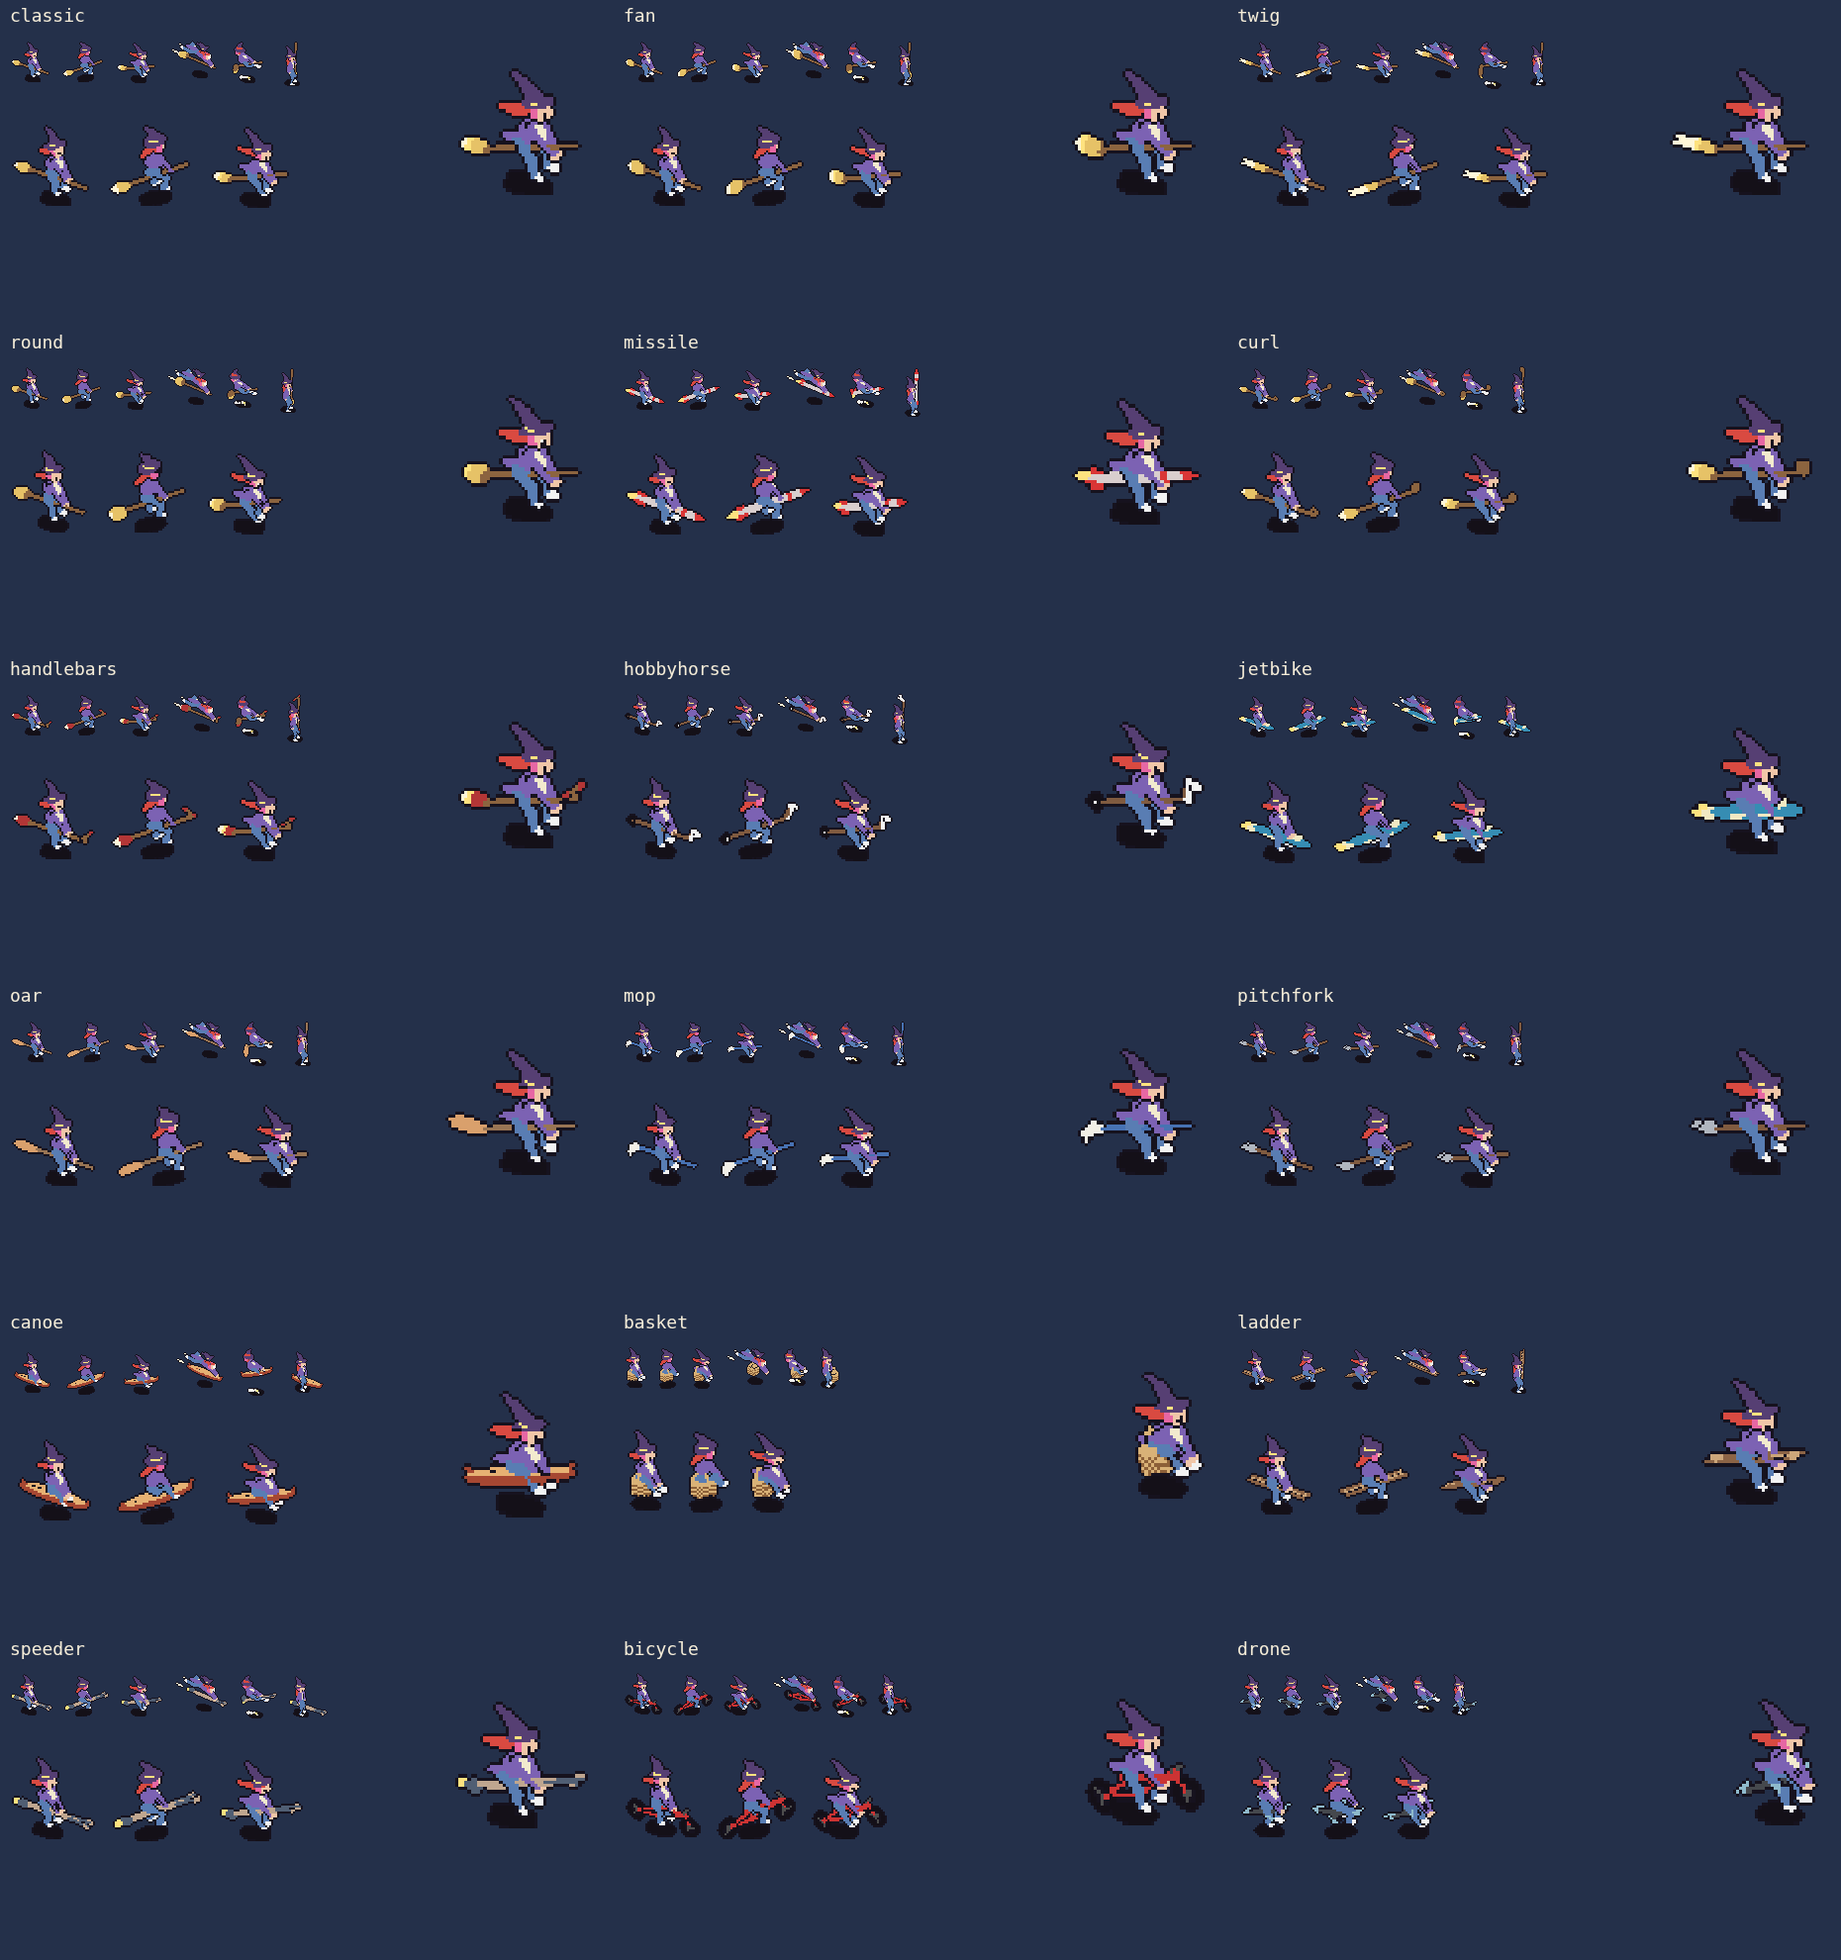
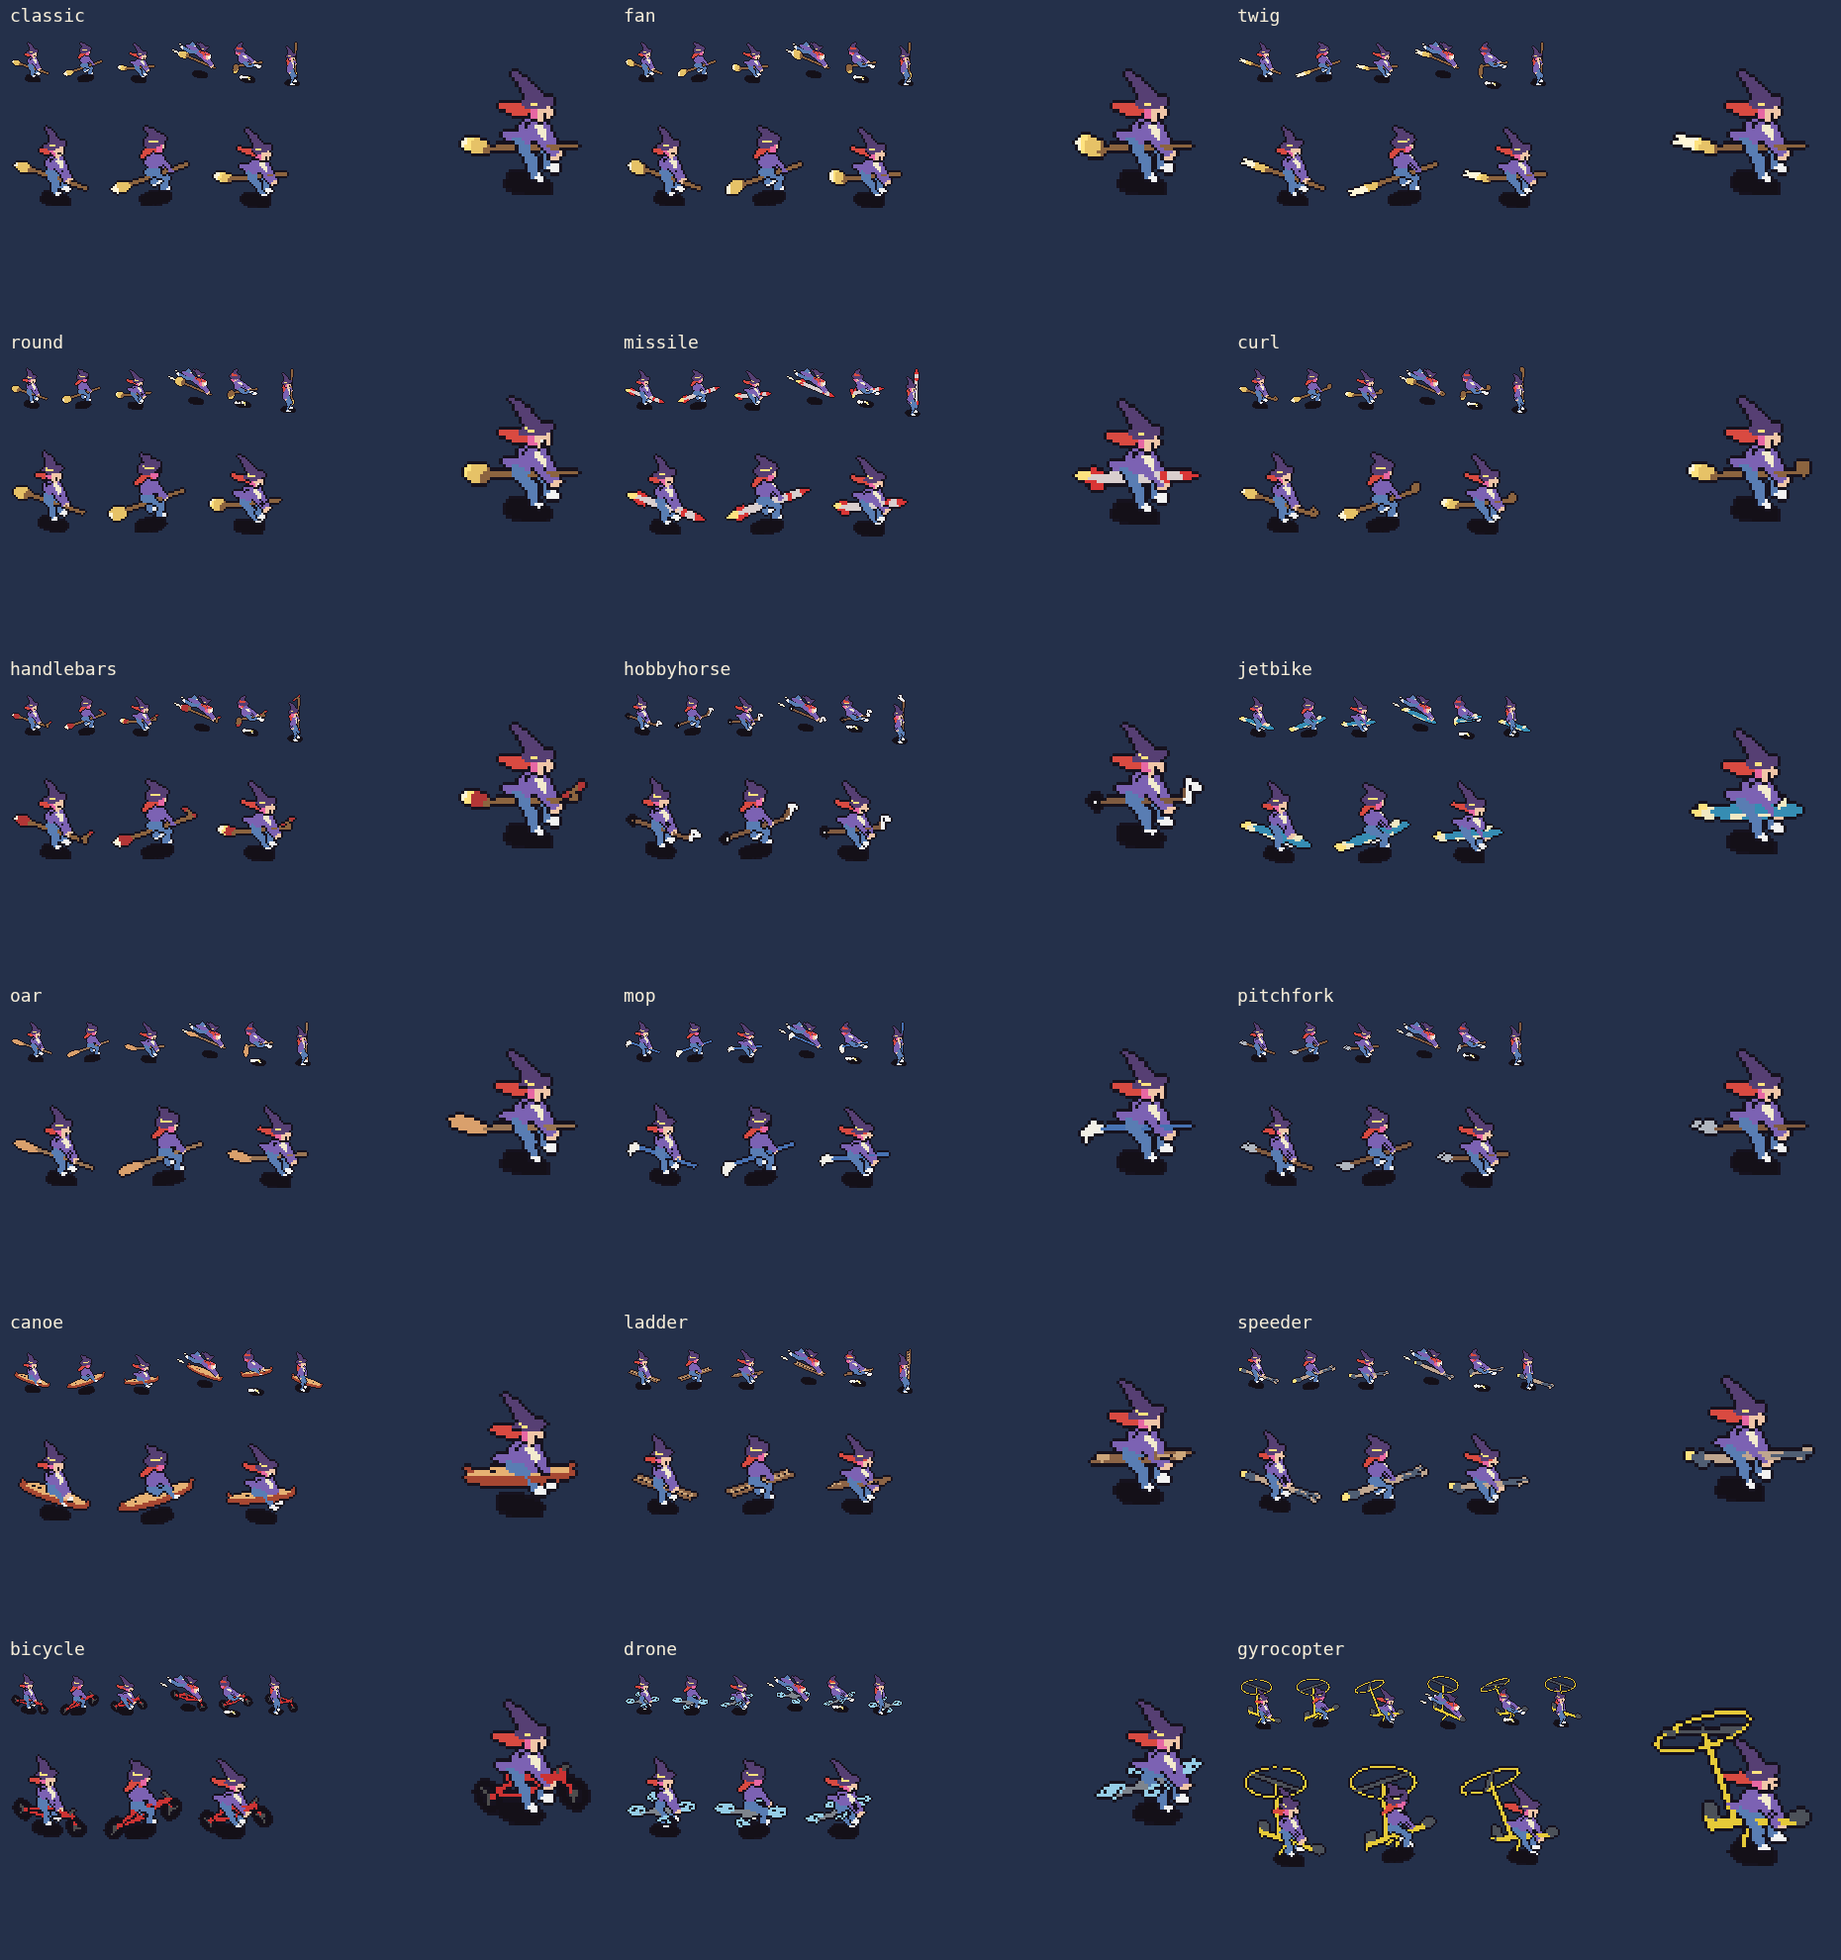
Brooms: a gyrocopter; the wicker basket left out (Ed)
Claude-Session: https://claude.ai/code/session_01TZiiLtuTHaQyxfLgD6H57G

diff --git a/art/brooms.js b/art/brooms.js
@@ -1,5 +1,6 @@
 // The broom's other kinds (Ed, 2026-10-06: "create some different kinds of broom; a missile, a curled tip, handlebars, hobby horse,
-// jet bike, oar, mop, pitchfork, canoe, wicker basket, ladder, speeder bike, bicycle, quad drone"). Each is drawn where her broom is
+// jet bike, oar, mop, pitchfork, canoe, wicker basket, ladder, speeder bike, bicycle, quad drone"; later: "a gyrocopter", and the
+// wicker basket left out). Each is drawn where her broom is
 // (art/witch.js broomHandle and broomBristles: the handle from its binding a to its nose b, the bristles' end at c, o.dir toward the
 // nose), so every pose that holds or rides a broom rides these too. Two colours, the creator's Broom box's two pickers: the body
 // (M.BROOM, the handle's) and the trim (M.STRAW, the bristles'); flames, exhausts and lights glow in her magic (M.MAGIC, MAGIC2).
@@ -9,11 +10,11 @@ import { M } from "./core.js";
 import { v3 } from "./model3d.js";
 
 /** The kinds after hers (classic, fan, twig, round), in the creator's order. */
-export const NEW_BROOMS = ["missile", "curl", "handlebars", "hobbyhorse", "jetbike", "oar", "mop", "pitchfork", "canoe", "basket", "ladder", "speeder", "bicycle", "drone"];
+export const NEW_BROOMS = ["missile", "curl", "handlebars", "hobbyhorse", "jetbike", "oar", "mop", "pitchfork", "canoe", "ladder", "speeder", "bicycle", "drone", "gyrocopter"];
 /** She sits in these (knees up) rather than astride. */
-export const SIT_IN = new Set(["canoe", "basket"]);
+export const SIT_IN = new Set(["canoe"]);
 /** On foot these stand on the ground beside her (how high their binding is) rather than being held like a staff. */
-export const PARKED = { canoe: .15, basket: .28, bicycle: .35, jetbike: .14, speeder: .1, drone: .11 };
+export const PARKED = { canoe: .15, gyrocopter: .3, bicycle: .35, jetbike: .14, speeder: .1, drone: .11 };
 
 const BR_BODY = 2, BR_TAIL = 3, BR_TRIM = 13, BR_GLOW = 16, BR_BITS = 17; // groups: different ones meet with a crease, so the pieces read apart
 const BR_SIDE = [0, 0, 1];
@@ -137,16 +138,6 @@ export const BROOM_KINDS = {
       for (const t of [-.5, .55]) m.seg(v3.add(c, v3.mul(F.d, t * F.len)), v3.add(v3.add(c, v3.mul(F.d, t * F.len * 1.12)), v3.mul(F.up, .1)), .02, .012, M.BROOM, { group: BR_TRIM }); // its ends sweeping up
     },
   },
-  // a wicker basket: she sits in it, its weave in both colours
-  basket: {
-    body(m, L, a, b) {
-      const F = broomAlong(L, a, b), c = v3.add(v3.add(a, v3.mul(F.d, .46)), v3.mul(F.up, -.1)), weave = p => (Math.floor(p[1] * 28) + Math.floor((p[0] + p[2]) * 18)) % 2 ? M.STRAW : undefined;
-      m.box(c, [.19, .17, .19], M.BROOM, { dir: F.d, up: F.up, group: BR_BODY, round: .04, paint: weave });
-      m.box(v3.add(c, v3.mul(F.up, .06)), [.16, .17, .16], M.STRAW, { dir: F.d, up: F.up, group: BR_BODY, round: .03, cut: true });
-      const rim = v3.add(c, v3.mul(F.up, .17)); broomRing(m, rim, F.d, BR_SIDE, .19, .022, M.STRAW, BR_TRIM, 16);
-      m.chain([[...v3.add(rim, [0, 0, -.19]), .014], [...v3.add(rim, v3.add(v3.mul(F.up, .14), [0, 0, -.1])), .014], [...v3.add(rim, v3.add(v3.mul(F.up, .2), [0, 0, 0])), .014], [...v3.add(rim, v3.add(v3.mul(F.up, .14), [0, 0, .1])), .014], [...v3.add(rim, [0, 0, .19]), .014]], M.STRAW, { group: BR_TRIM, extra: true }); // its handle, arching over her
-    },
-  },
   // a ladder: two rails and rungs
   ladder: {
     body(m, L, a, b) {
@@ -193,6 +184,27 @@ export const BROOM_KINDS = {
         broomRing(m, top, F.d, BR_SIDE, .13, .006, M.STRAW, BR_BITS + 1, 12); // the blur of its blades
         m.ell(v3.add(hub, v3.mul(F.up, -.02)), [.016, .016, .016], p > 0 ? M.MAGIC : M.MAGIC2, { group: BR_GLOW });
       }
+    },
+  },
+  // a gyrocopter: a keel under her with a bubble nose, a mast behind her up past her hat, a big rotor turning on it, a tail fin and a
+  // pusher propeller at the back
+  gyrocopter: {
+    body(m, L, a, b) {
+      const F = broomAlong(L, a, b), turn = (L.frame ?? 0) * Math.PI / 3;
+      m.seg(F.at(0, -.06), F.at(F.len, -.06), .03, .028, M.BROOM, { group: BR_BODY });
+      m.ell(F.at(F.len - .02, -.02), [.1, .07, .07], M.STRAW, { dir: F.d, up: F.up, group: BR_TRIM }); // the nose
+      const foot = F.at(.3, -.04), top = v3.add(F.at(.24, 0), v3.mul(F.up, .98));
+      m.seg(foot, top, .022, .016, M.BROOM, { group: BR_BODY });
+      m.ell(top, [.03, .025, .03], M.STRAW, { group: BR_TRIM });
+      for (const k of [0, 1]) { const t = turn + k * Math.PI, dr = v3.add(v3.mul(F.d, Math.cos(t) * .5), [0, 0, Math.sin(t) * .5]); m.seg(top, v3.add(top, dr), .02, .014, M.STRAW, { group: BR_BITS, extra: true }); }
+      broomRing(m, v3.add(top, v3.mul(F.up, -.005)), F.d, BR_SIDE, .5, .005, M.BROOM, BR_BITS + 1, 20); // the blur of its rotor
+      for (const s2 of [-1, 1]) m.seg(F.at(.5, -.07, s2 * .02), F.at(.42, -.25, s2 * .13), .012, .012, M.BROOM, { group: BR_BITS }); // its little legs
+    },
+    tail(m, L, c, r, o) {
+      const T = broomTail(c, r, o), turn = (L.frame ?? 0) * Math.PI / 4 + .4;
+      m.box(T.at(.0, .08), [.07, .08, .008], M.STRAW, { dir: T.d, up: T.up, group: BR_TRIM, round: .006 }); // the fin
+      m.ell(T.at(-.03, -.06), [.03, .025, .025], M.STRAW, { group: BR_TRIM });
+      for (const k of [0, 1]) { const t = turn + k * Math.PI, dr = v3.add(v3.mul(T.up, Math.cos(t) * .11), [0, 0, Math.sin(t) * .11]); m.seg(T.at(-.05, -.06), v3.add(T.at(-.05, -.06), dr), .012, .008, M.BROOM, { group: BR_BITS }); }
     },
   },
 };

diff --git a/src/ui/creator.ts b/src/ui/creator.ts
@@ -67,7 +67,7 @@ const label = (s: string) => s.replace(/([A-Z])/g, " $1").replace(/^hat |^broom 
 /** What a choice is called on its button (its genome name otherwise). */
 const NAMES: Record<string, string> = { conical: "farmer's", boppers: "deely boppers", top: "top hat", party: "party hat", traffic: "traffic cone" };
 /** The broom kinds' names on their buttons (art/brooms.js). */
-const BROOM_NAMES: Record<string, string> = { curl: "curled tip", hobbyhorse: "hobby horse", jetbike: "jet bike", basket: "wicker basket", speeder: "speeder bike", drone: "quad drone" };
+const BROOM_NAMES: Record<string, string> = { curl: "curled tip", hobbyhorse: "hobby horse", jetbike: "jet bike", speeder: "speeder bike", drone: "quad drone" };
 const optName = (axis: string, opt: string) => axis === "hatShape" ? (opt === "none" ? "no hat" : NAMES[opt] ?? opt) : axis === "broom" ? BROOM_NAMES[opt] ?? opt : opt;
 /** What a toggle or a colour part is called in its box (its genome name otherwise). */
 const WEAR_NAMES: Record<string, string> = { phones: "wearing them", shades: "sunglasses", scarf: "wearing it", satchel: "satchel", bumbag: "bum bag", chunky: "chunky trainers", glowsticks: "glow sticks", vial: "potion vial", book: "spellbook", patches: "cloak patches" };

diff --git a/CLAUDE.md b/CLAUDE.md
@@ -64,7 +64,7 @@ Literal, stable names for the parts of the game, as Ed and the builders agree th
 - **Wall objects, small objects, big objects, set piece**: Ed's columns. Big objects stand like trees (trees split into top and bottom halves; mounds, boulders and logs whole); small objects scatter like undergrowth; wall objects stand where areas meet and block nothing; a set piece shows in a quarter of its type's areas, in the clearing.
 - **Party witches**: the witches who fly in to the dancefloor, one for each active soundsystem (`partyWitch(seed)` in `art/witch.js`): generated witches (Ed, 2026-10-05: "the generated witches replace the party witches' outfits"), `witchGenome(seed, { party: true })` with two party neons for their glow sticks; the old outfits (`PARTY_OUTFITS`) still draw with `partyWitch(seed, { outfit })`. They and our witch share the party poses (dances, pairs, social, running, resting).
 - **Pair poses**: party poses two witches do together (`WITCH_PAIRS`): each draws her own sprite, placed so their `pair` anchors meet (the partner mirrored, so they face each other; the conga's hands on the `back` of the witch ahead; the twirl's partner spins under the raised hand; the broom limbo is two witches holding a broom level and a third leaning back under it).
-- **Witch genome / witch generator**: a witch as genome data (`art/witchGenome.js`): her hat (shape: the witch's classic, crooked, floppy, small and flowers, and the creator's none, top, cowboy, conical, boppers, party, musketeer, wizard, beanie, crown, mushroom and traffic; crown height, brim, lean, band), hair, top, cloak (none, short, long, hooded), broom (classic, fan, twig or round bristles; handle length and bend; bristle length; and the creator's other kinds, Ed 2026-10-06, `art/brooms.js`: missile, curled tip, handlebars, hobby horse, jet bike, oar, mop, pitchfork, canoe, wicker basket, ladder, speeder bike, bicycle and quad drone, each in the Broom box's two colours, body and trim, its flames, exhausts and lights glowing, its rotors, wheels and drips turning with the frame; she sits in the canoe and the basket, and on foot the vehicles stand beside her; `node tools/witch/brooms-sheet.mjs <png> [kinds]` and `brooms-gif.mjs` draw them; generated witches keep the four brooms), cloak length and patches, scarf length (0 none to 3 trailing), bag size and backpack size (0 none), the sliders' ranges wider than a generated witch's (Ed, round 11: "the sliders ... should go further"; `node tools/witch/hats-sheet.mjs` and `sliders-sheet.mjs` draw them), accessories both witchy and modern (Ed: a familiar riding her broom or sitting at her feet: cat, crow, toad or bat; a lit lantern at her hip, a glowing potion vial and a spellbook at her belt; headphones, sunglasses, round or not, glow sticks, a festival wristband, a bum bag, chunky trainers; a scarf, a satchel, a glowing pendant, earrings) and palette (per part, as `DEFAULT_OUTFIT`). `genomeLook(g)` gives the look and outfit `witchSprite` draws; `WITCH_GENOME` is ours and draws her exactly; `witchGenome(seed)` is a new witch within the limits in `WITCH_AXES` (always a pointed hat with its glowing band, and a broom; brims up to nearly twice hers, a floppy one's to 1.5, and cloaks mostly long, up to 1.75 times).
+- **Witch genome / witch generator**: a witch as genome data (`art/witchGenome.js`): her hat (shape: the witch's classic, crooked, floppy, small and flowers, and the creator's none, top, cowboy, conical, boppers, party, musketeer, wizard, beanie, crown, mushroom and traffic; crown height, brim, lean, band), hair, top, cloak (none, short, long, hooded), broom (classic, fan, twig or round bristles; handle length and bend; bristle length; and the creator's other kinds, Ed 2026-10-06, `art/brooms.js`: missile, curled tip, handlebars, hobby horse, jet bike, oar, mop, pitchfork, canoe, ladder, speeder bike, bicycle, quad drone and gyrocopter (the wicker basket left out), each in the Broom box's two colours, body and trim, its flames, exhausts and lights glowing, its rotors, wheels and drips turning with the frame; she sits in the canoe, and on foot the vehicles stand beside her; `node tools/witch/brooms-sheet.mjs <png> [kinds]` and `brooms-gif.mjs` draw them; generated witches keep the four brooms), cloak length and patches, scarf length (0 none to 3 trailing), bag size and backpack size (0 none), the sliders' ranges wider than a generated witch's (Ed, round 11: "the sliders ... should go further"; `node tools/witch/hats-sheet.mjs` and `sliders-sheet.mjs` draw them), accessories both witchy and modern (Ed: a familiar riding her broom or sitting at her feet: cat, crow, toad or bat; a lit lantern at her hip, a glowing potion vial and a spellbook at her belt; headphones, sunglasses, round or not, glow sticks, a festival wristband, a bum bag, chunky trainers; a scarf, a satchel, a glowing pendant, earrings) and palette (per part, as `DEFAULT_OUTFIT`). `genomeLook(g)` gives the look and outfit `witchSprite` draws; `WITCH_GENOME` is ours and draws her exactly; `witchGenome(seed)` is a new witch within the limits in `WITCH_AXES` (always a pointed hat with its glowing band, and a broom; brims up to nearly twice hers, a floppy one's to 1.5, and cloaks mostly long, up to 1.75 times).
 - **Lean cycle**: the witch's ordinary flying speed at ground level as a 4-frame loop (`pose: "lean"`), played faster with speed.
 - **Treehouse**: the witch's home near the dancefloor (`art/treehouse.js`), a tall timber tower of storeys stacked up a giant living tree, mostly wood with modern touches, its shingled witch's-hat tower standing above the treetops; she starts the game standing behind the decks in its cutaway DJ booth (the `stand` pose at its `seat` anchor; the `fore` sprite, the DJ table, drawn over her; `sit` in a game without the party spell), the camera zoomed in on its `camera` anchor; its tree is a giant, unlike any forest species. She stays there (`witch.seated` in the rules) until the **party spell** is cast and she first moves or rises. It stands just beyond the dancefloor's clearing (`map.treehouse`, placed by `treehouse` in the tuning file).
 - **Layout**: an area type's `layout` in `art/areas.js`: how its trees and undergrowth are arranged (pattern, density, clumping, glades, height mix, lean, terrain, decorations, a one-line feel); data the prototype's layout engine reads.
